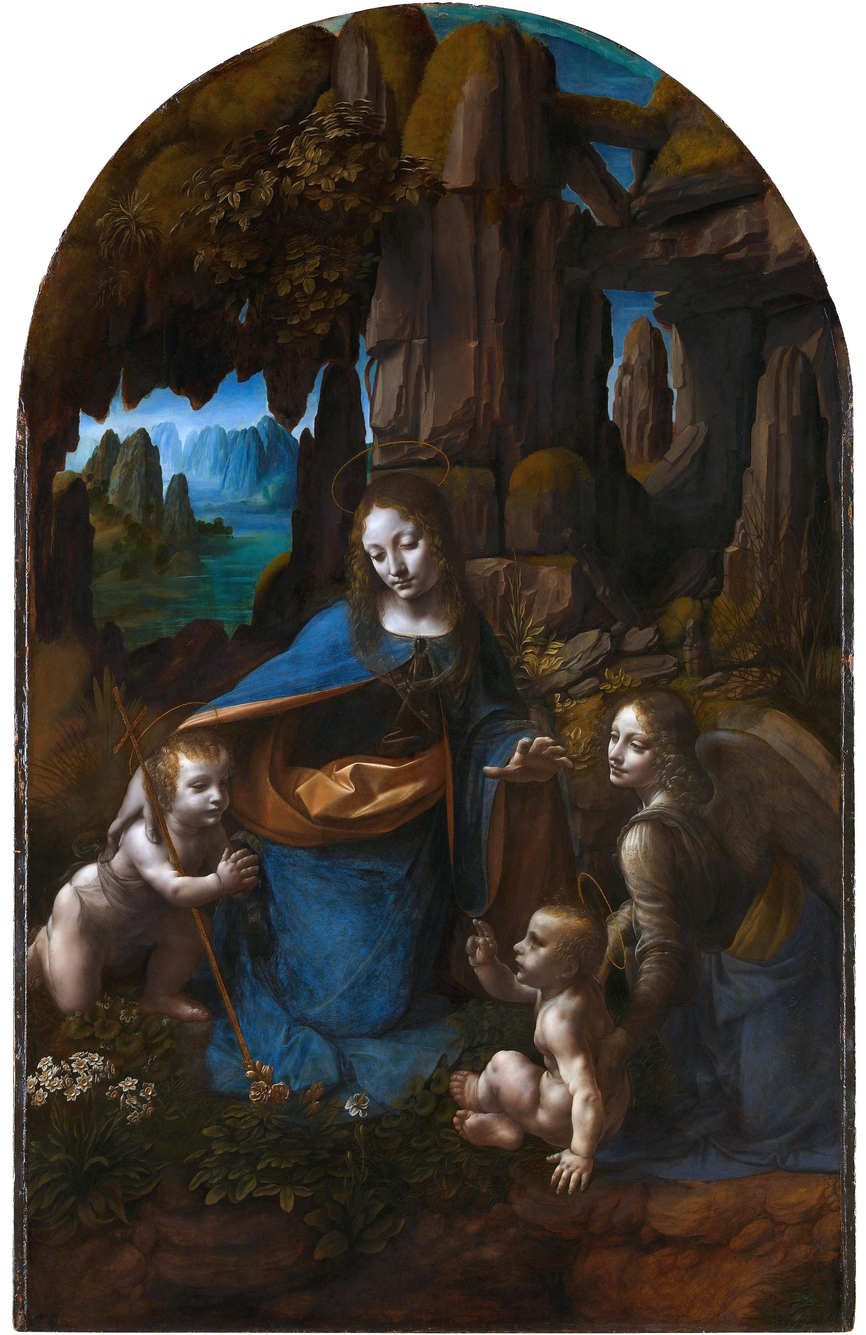
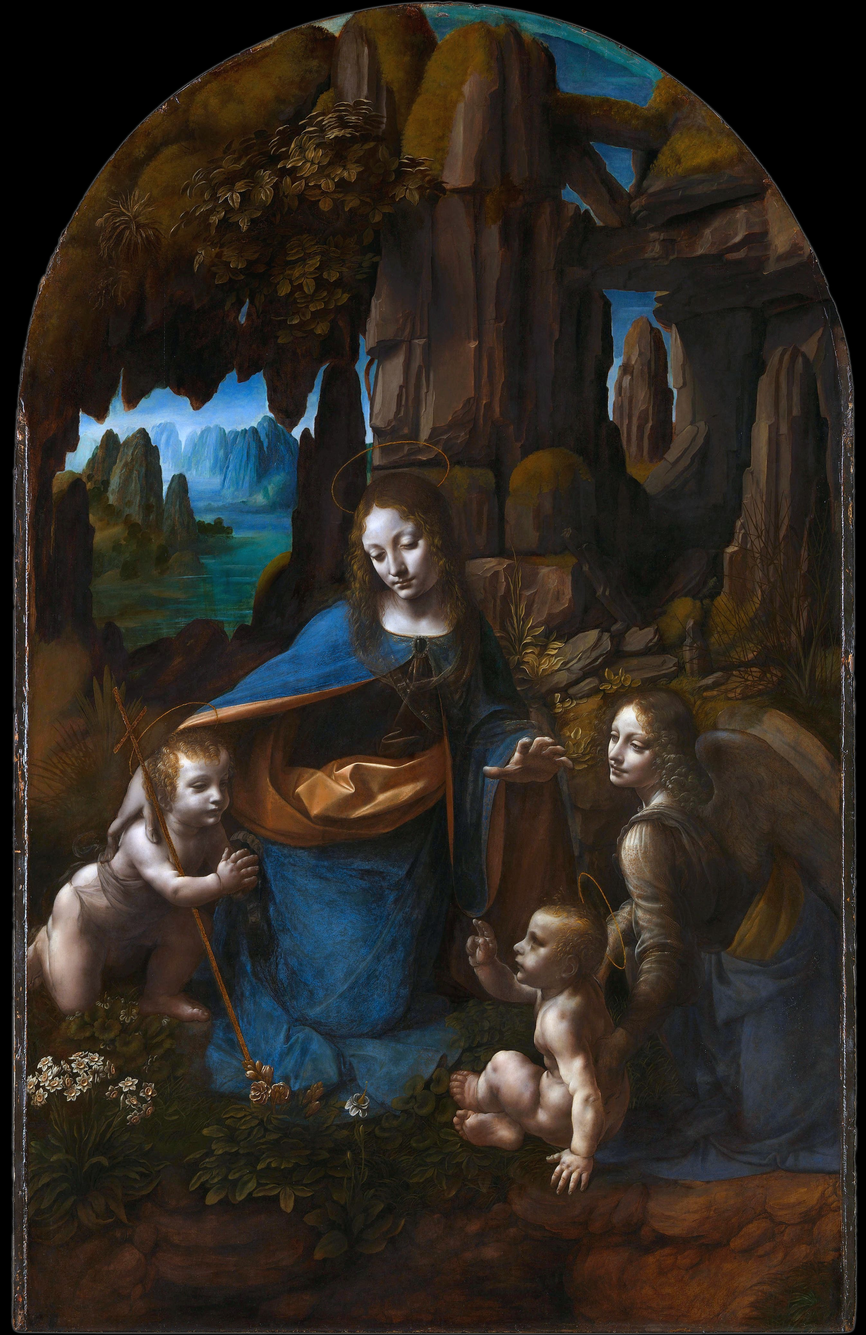
fixed frame thickness (da vinci)

Changed region(s): [[0.0, 0.0, 1.0, 1.0]]

diff --git a/src/scenes/frames.ts b/src/scenes/frames.ts
@@ -400,12 +400,13 @@ export function buildArchedFrame(
   const spring = height / 2 - r0;
   const parts: Record<Role, THREE.BufferGeometry[]> = { gilt: [], dark: [] };
   const mat = new THREE.Matrix4();
+  const NARROW = 0.6;
 
   for (const c of spec.courses) {
-    const off = c.offset * s;
-    const band = c.width * s;
+    const off = c.offset * s * NARROW;
+    const band = c.width * s * NARROW;
     const depth = c.depth * s;
-    const bevel = c.bevel * s;
+    const bevel = c.bevel * s * NARROW;
 
     /*
      * One closed outline round the whole opening, holed by the opening
